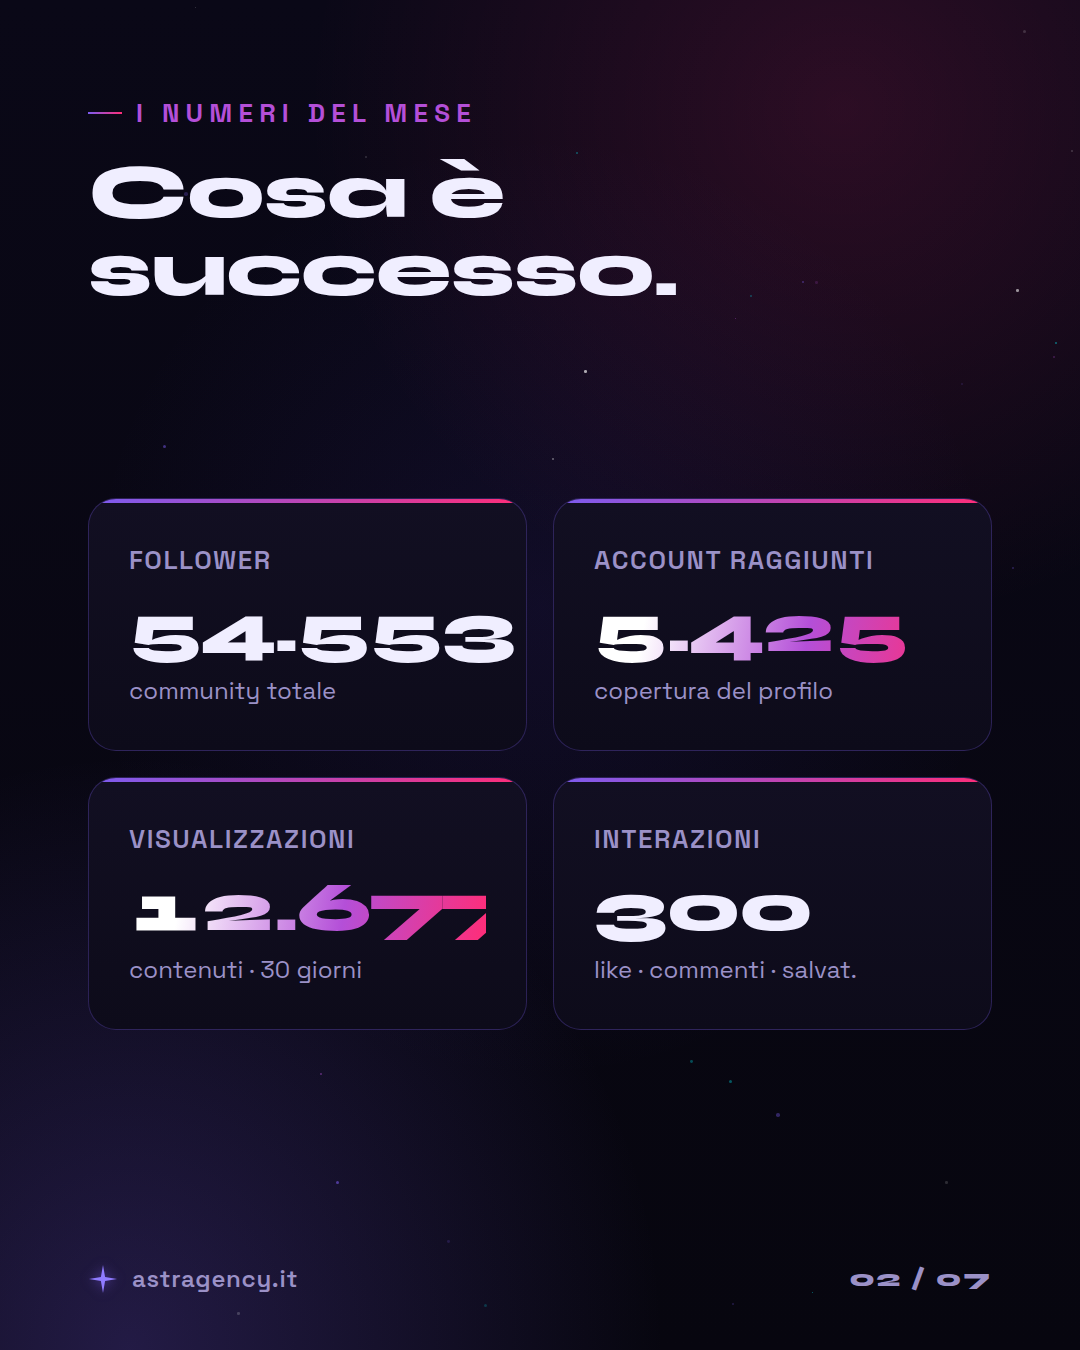
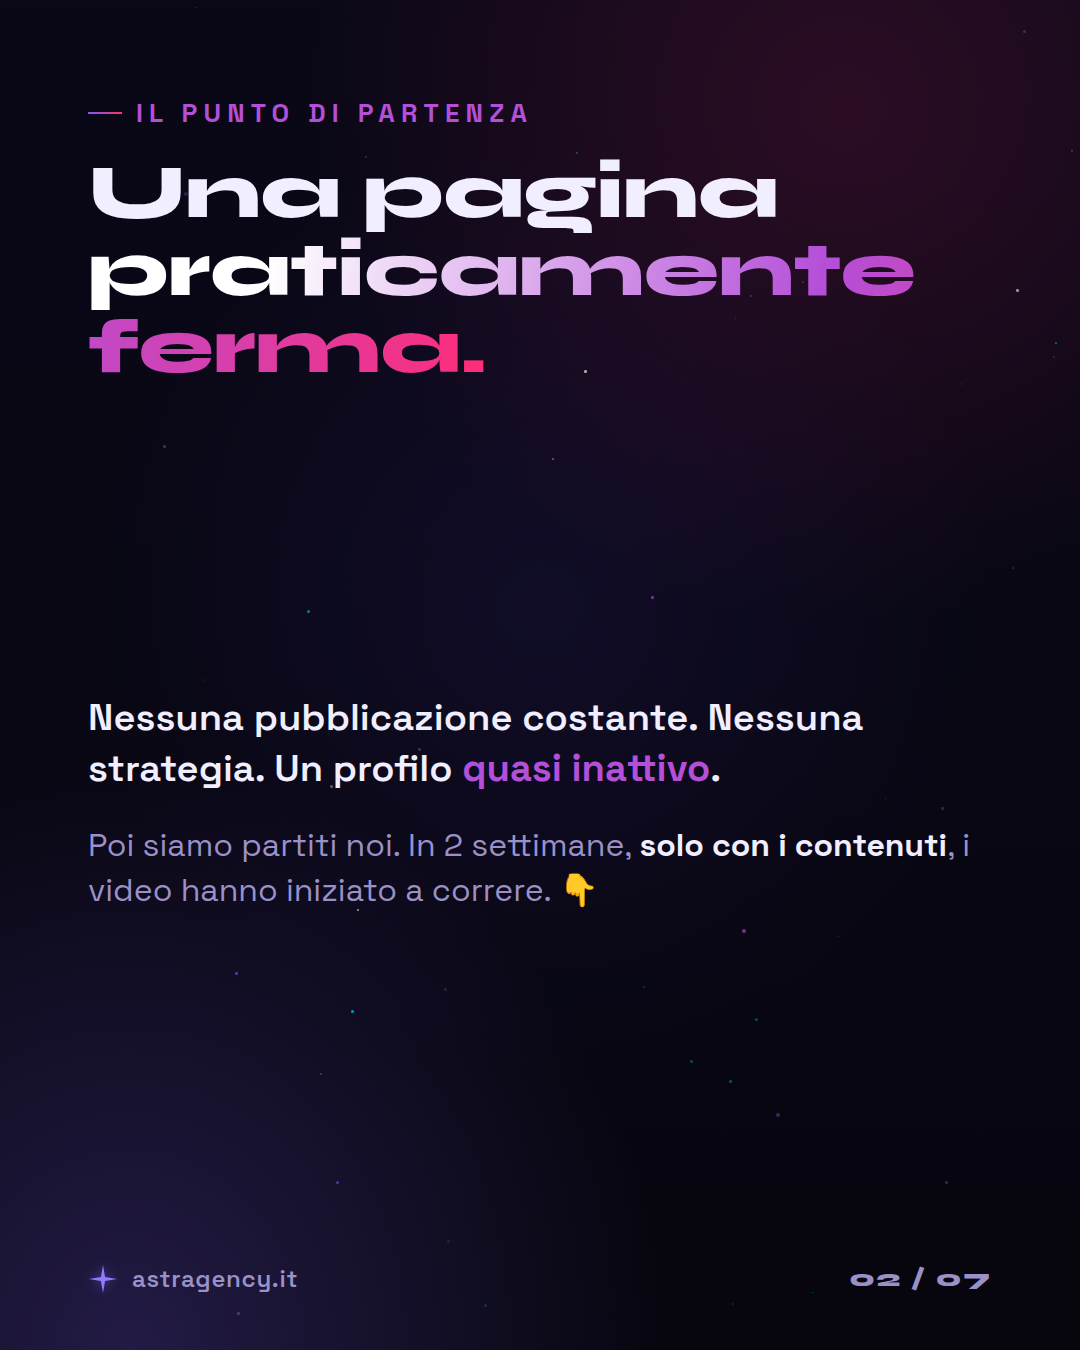
Carosello Shock: focus risultati 2 settimane (solo views + video), pagina inattiva

diff --git a/report-shock/index.html b/report-shock/index.html
@@ -66,8 +66,8 @@
     <div class="brand">
       <img src="/logo.png" width="150" alt="Astra Agency" />
     </div>
-    <div class="eyebrow">Carosello Instagram · 7 slide · 1080×1350</div>
-    <h1>Report del mese — Shock Male Grooming</h1>
+    <div class="eyebrow">Carosello Instagram · Case study 2 settimane · 1080×1350</div>
+    <h1>Shock Male Grooming — i risultati in 2 settimane</h1>
     <p>Clicca “Scarica” su ogni slide (o scarica tutte) e caricale su Instagram in ordine 01 → 07.</p>
   </div>
 
@@ -82,21 +82,22 @@
 
   <div class="caption-box" id="didascalia">
     <h3>Didascalia pronta <button class="btn btn-ghost copy-btn" onclick="copiaCaption()">Copia</button></h3>
-    <pre id="caption-text">🚀 Un solo reel. 158.993 visualizzazioni.
-Questo è stato il mese di Shock Male Grooming, gestito da noi di Astra Agency ✦
+    <pre id="caption-text">🚀 Da pagina praticamente ferma a 188.390 visualizzazioni. In sole 2 settimane.
 
-Lo skit “cliente furbo” da barbershop ha fatto 16× il secondo contenuto più visto — e l'84% della copertura è arrivata su pubblico nuovo. Discovery pura.
+Questo è quello che abbiamo ottenuto per Shock Male Grooming ✦ — solo con i contenuti, su un profilo che era quasi inattivo.
 
-Nel carosello trovi tutti i numeri e la nostra lettura per il mese che arriva 👉 scorri.
+Il reel «Ci cascano sempre» ha fatto 158.993 views da solo (16× il secondo video). E non è stato un colpo di fortuna: video su video, i numeri sono arrivati.
 
-Vuoi risultati così per il tuo brand? Scrivici in DM o su astragency.it ✦
+Nel carosello trovi tutte le statistiche 👉 scorri.
+
+E se la tua pagina fosse attiva? Scrivici in DM o su astragency.it ✦
 
 #socialmediamarketing #barbershop #reelvirali #astraagency #malegrooming #contentstrategy</pre>
   </div>
 
 <script>
   const NUM = 7;
-  const titoli = ['Cover','I numeri','Reel virale','Copertura','Classifica','La lettura','CTA'];
+  const titoli = ['Cover','Punto di partenza','Il reel','Classifica video','Totale','Perché','CTA'];
   const grid = document.getElementById('grid');
   for (let i = 1; i <= NUM; i++) {
     const n = String(i).padStart(2,'0');
